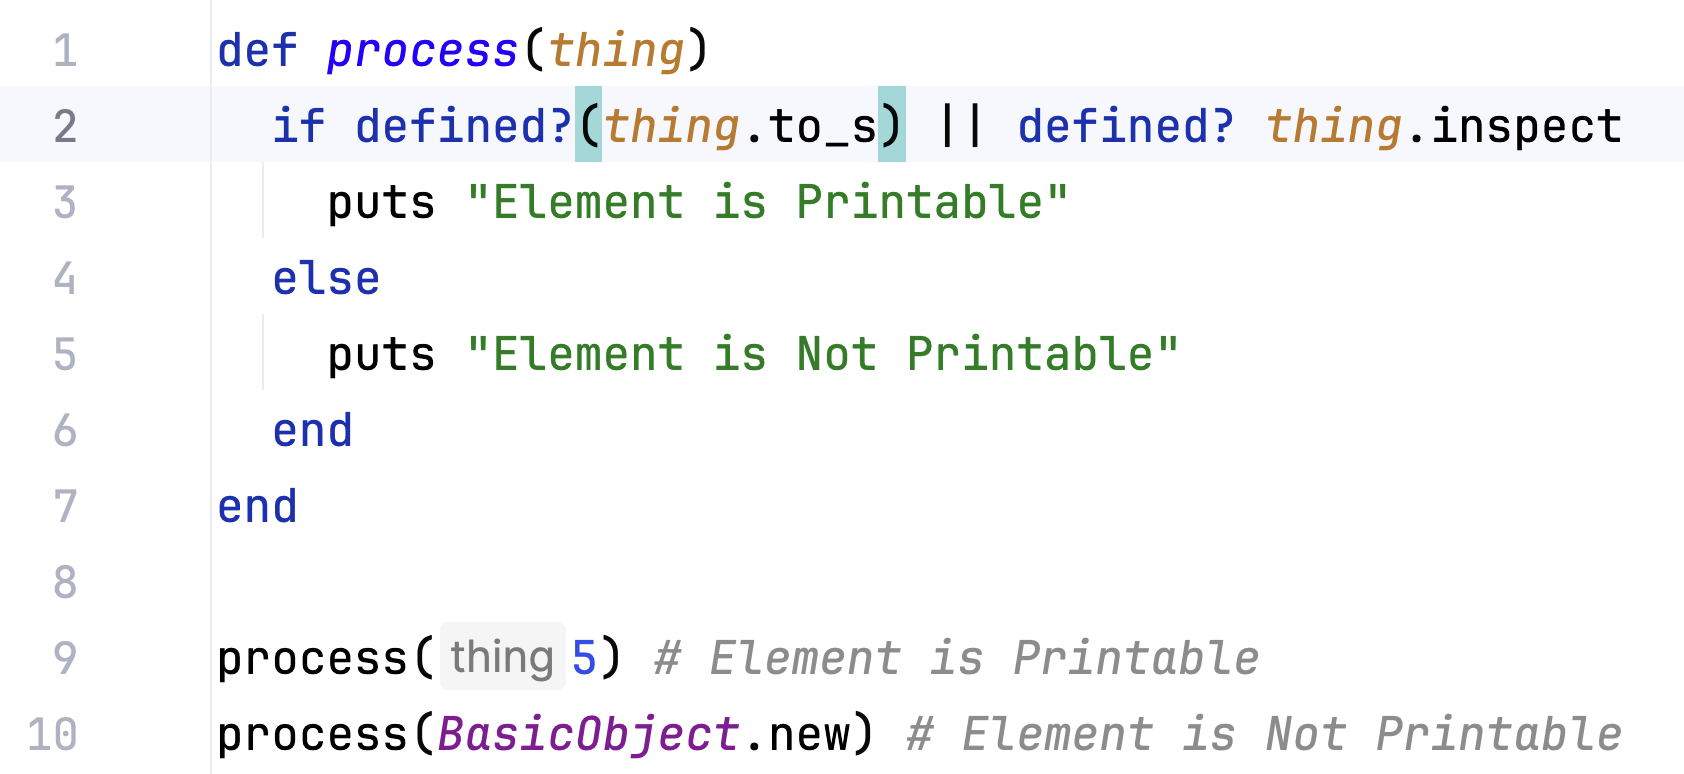
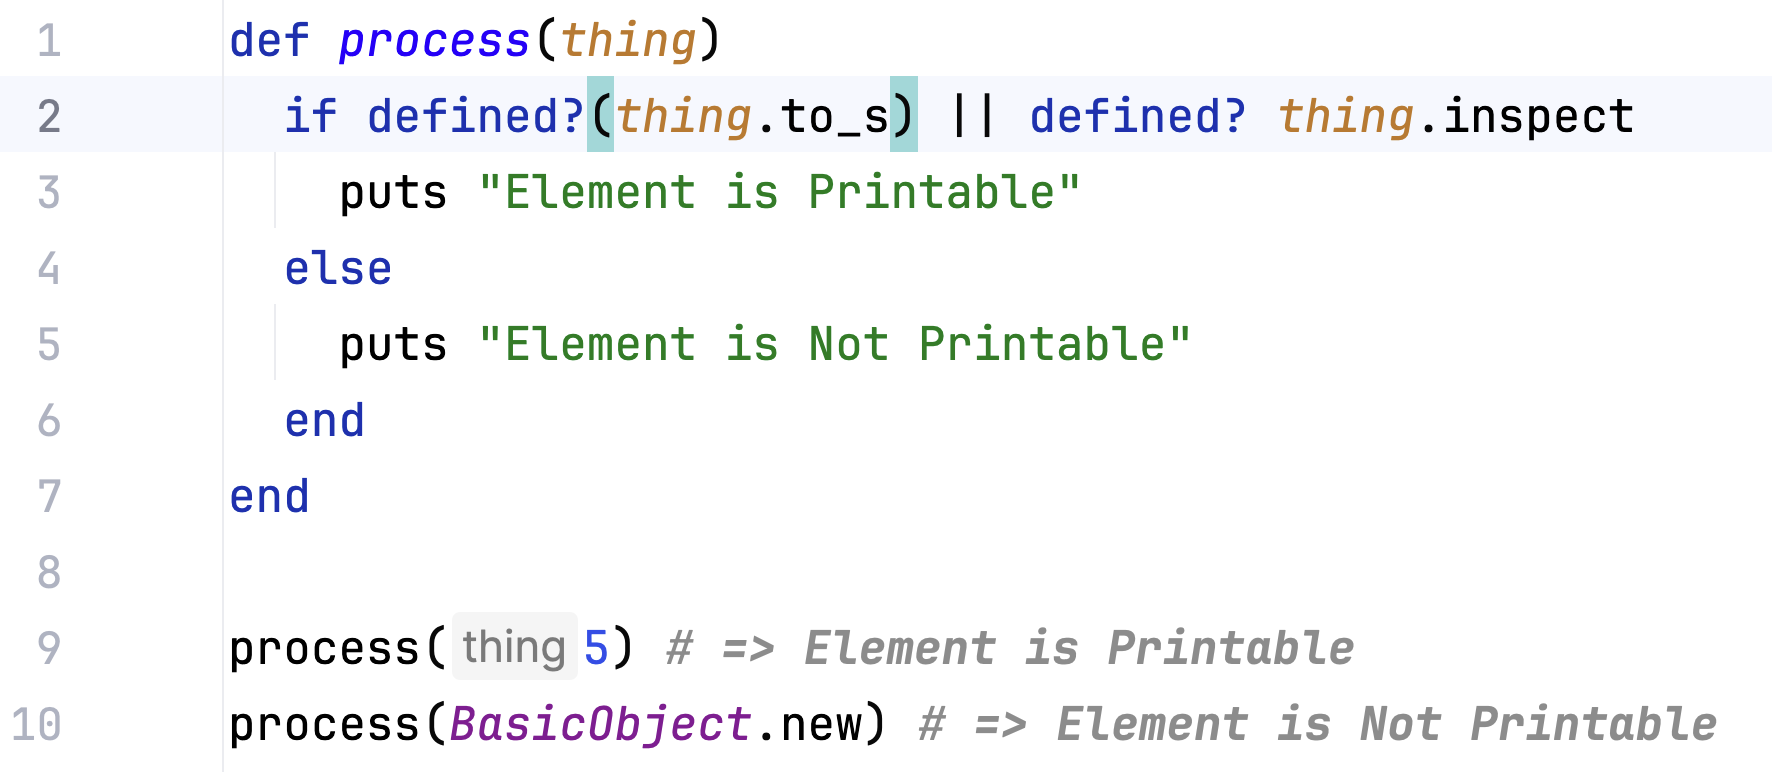
Preparation steps

diff --git a/src/presentation_samples/5_tracepoint_imporvements/1_tracepoint_improvements.rb b/src/presentation_samples/5_tracepoint_imporvements/1_tracepoint_improvements.rb
@@ -1,6 +1,5 @@
-def say_hello
-  puts "Hello EuRuKo2024!"
-end
+def say_hello = puts "Hello EuRuKo2024!"
+def say_goodbye = puts "Goodbye EuRuKo2024!"
 
 iseq = RubyVM::InstructionSequence.of(method(:say_hello))
 trace = TracePoint.new(:call) do |tp|
@@ -10,7 +9,9 @@ end
 trace.enable(target: iseq)
 
 say_hello
+say_goodbye
 # => Calling method 'say_hello'
 # => Hello EuRuKo2024!
+# => Goodbye EuRuKo2024!
 
 

diff --git a/src/presentation_samples/example.rb b/src/presentation_samples/example.rb
@@ -1,0 +1,18 @@
+# frozen_string_literal: true
+
+# The program begins with the definition of main method.
+def main
+  greeting = "Hello, world!"
+  a = 1
+  b = 2
+  puts a + b
+  print_greeting(greeting)
+end
+
+# Here we define a method which takes in a string and prints it.
+def print_greeting(greeting)
+  puts greeting
+end
+
+# Finally, we call the main program to execute.
+main

diff --git a/src/presentation_samples/2_tracepoint/2_tracepoint_simple_debugger.rb b/src/presentation_samples/2_tracepoint/2_tracepoint_simple_debugger.rb
@@ -1,13 +1,13 @@
+def say_hello
+  puts "Hello EuRuKo2024!"
+end
+
 TracePoint.new(:call) do |tp|
   puts "Call method '#{tp.method_id}'"
   while (input = gets.chomp) != "cont"
     puts eval(input)
   end
 end.enable
-
-def say_hello
-  puts "Hello EuRuKo2024!"
-end
 
 say_hello
 

diff --git a/src/presentation_samples/2_tracepoint/1_tracepoint_example.rb b/src/presentation_samples/2_tracepoint/1_tracepoint_example.rb
@@ -1,9 +1,12 @@
-TracePoint.new(:call) do |tp|
-  puts "Calling method '#{tp.method_id}'"
-end.enable
-
 def say_hello
   puts "Hello EuRuKo2024!"
 end
 
+TracePoint.new(:call) do |tp|
+  puts "Calling method '#{tp.method_id}'"
+end.enable
+
 say_hello
+
+
+

diff --git a/src/presentation_samples/1_example_with_bug/2_example_define_fixed.rb b/src/presentation_samples/1_example_with_bug/2_example_define_fixed.rb
@@ -6,8 +6,8 @@ def process(thing)
   end
 end
 
-process(5) # Element is Printable
-process(BasicObject.new) # Element is Not Printable
+process(5) # => Element is Printable
+process(BasicObject.new) # => Element is Not Printable
 
 
 

diff --git a/src/presentation_samples/1_example_with_bug/4_example_define_puts_debuggerer.rb b/src/presentation_samples/1_example_with_bug/4_example_define_puts_debuggerer.rb
@@ -13,5 +13,8 @@ def process(thing)
   puts ""
 end
 
-process(5) # Element is Printable
-process(BasicObject.new) # Element is Printable
+process(5) # => Element is Printable
+process(BasicObject.new) # => Element is Printable
+
+
+

diff --git a/src/presentation_samples/12_inline_debugger_values/sample_method.rb b/src/presentation_samples/12_inline_debugger_values/sample_method.rb
@@ -1,0 +1,16 @@
+def filter_array(array, number)
+  new_array = []
+  array.each do |element|
+    if element < number
+      new_array << element
+    end
+  end
+  new_array
+end
+
+filter_array([1,2,3,4,5,6,7,8,9], 5)
+
+
+
+
+

diff --git a/src/presentation_samples/1_example_with_bug/1_example_define.rb b/src/presentation_samples/1_example_with_bug/1_example_define.rb
@@ -6,8 +6,8 @@ def process(thing)
   end
 end
 
-process(5) # Element is Printable
-process(BasicObject.new) # Element is Printable
+process(5) # => Element is Printable
+process(BasicObject.new) # => Element is Printable
 
 
 

diff --git a/src/presentation_samples/8_logging_breakpoint/logging_breakpoint_example.rb b/src/presentation_samples/8_logging_breakpoint/logging_breakpoint_example.rb
@@ -6,8 +6,8 @@ def process(thing)
   end
 end
 
-process(5) # Element is Printable
-process(BasicObject.new) # Element is Printable
+process(5) # => Element is Printable
+process(BasicObject.new) # => Element is Printable
 
 
 

diff --git a/src/presentation_samples/1_example_with_bug/5_example_define_irb.rb b/src/presentation_samples/1_example_with_bug/5_example_define_irb.rb
@@ -7,7 +7,7 @@ def process(thing)
   end
 end
 
-process(5) # Element is Printable
-process(BasicObject.new) # Element is Printable
+process(5) # => Element is Printable
+process(BasicObject.new) # => Element is Printable
 
 
